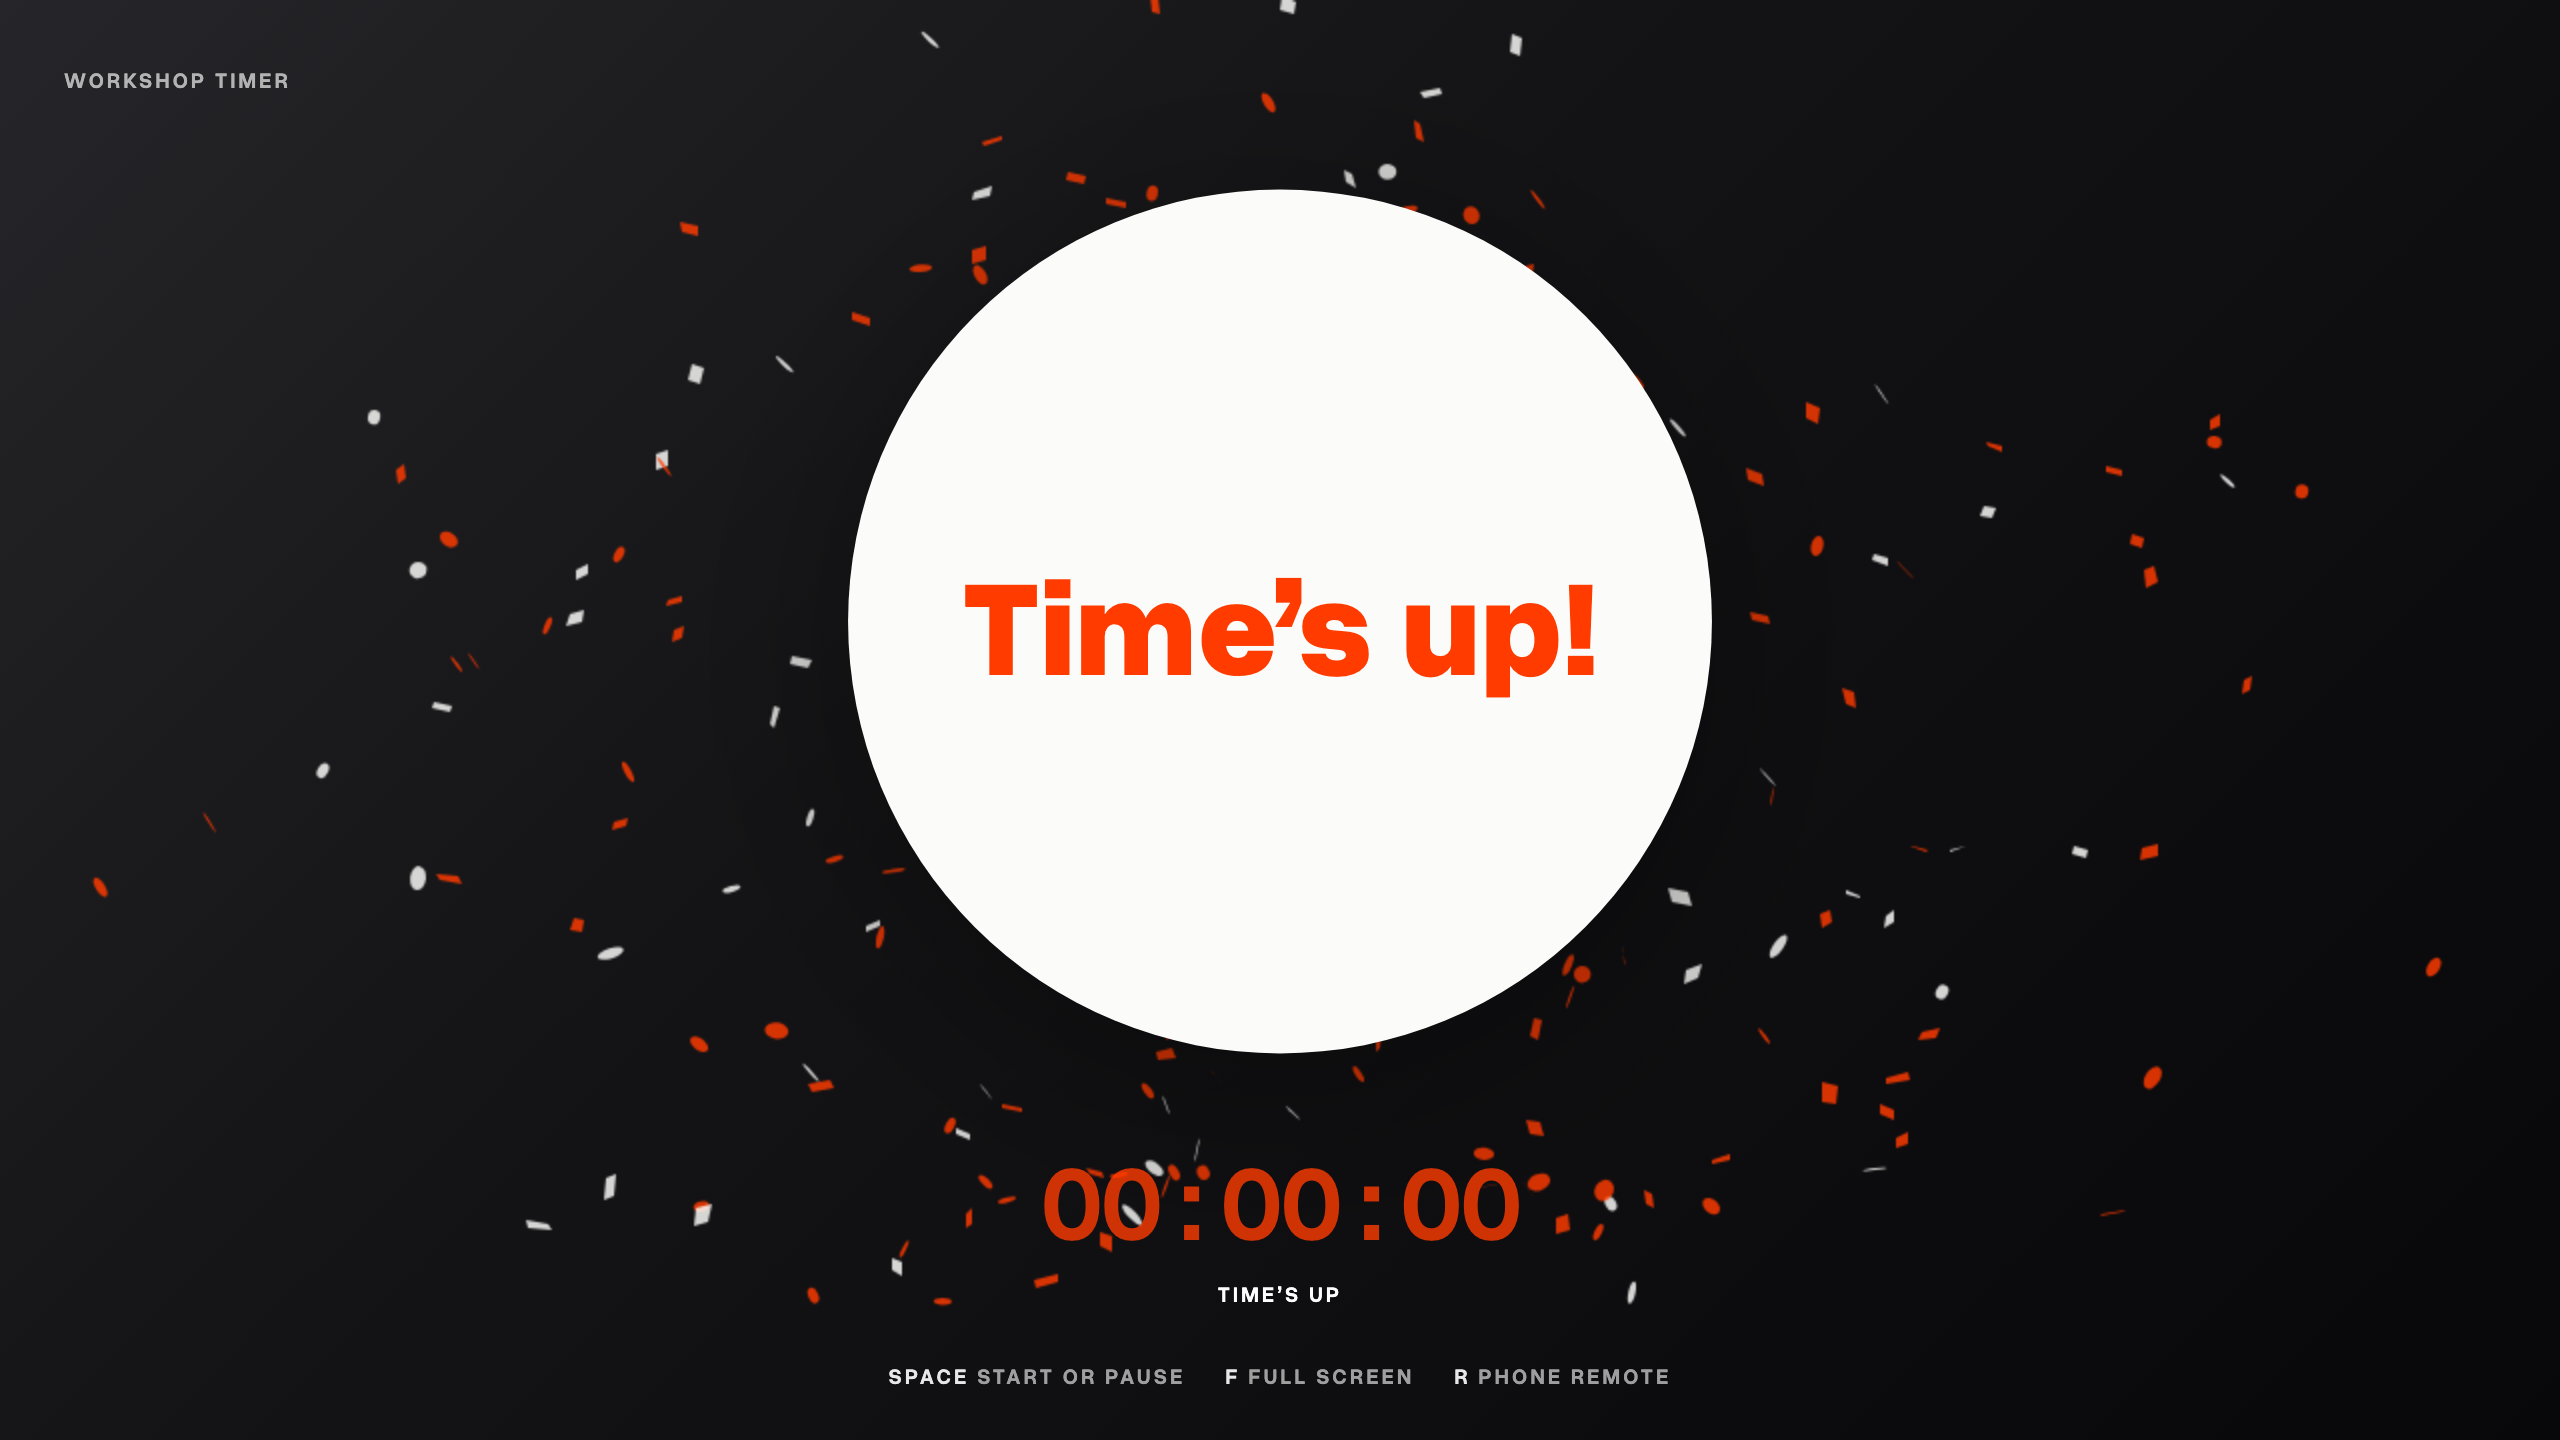
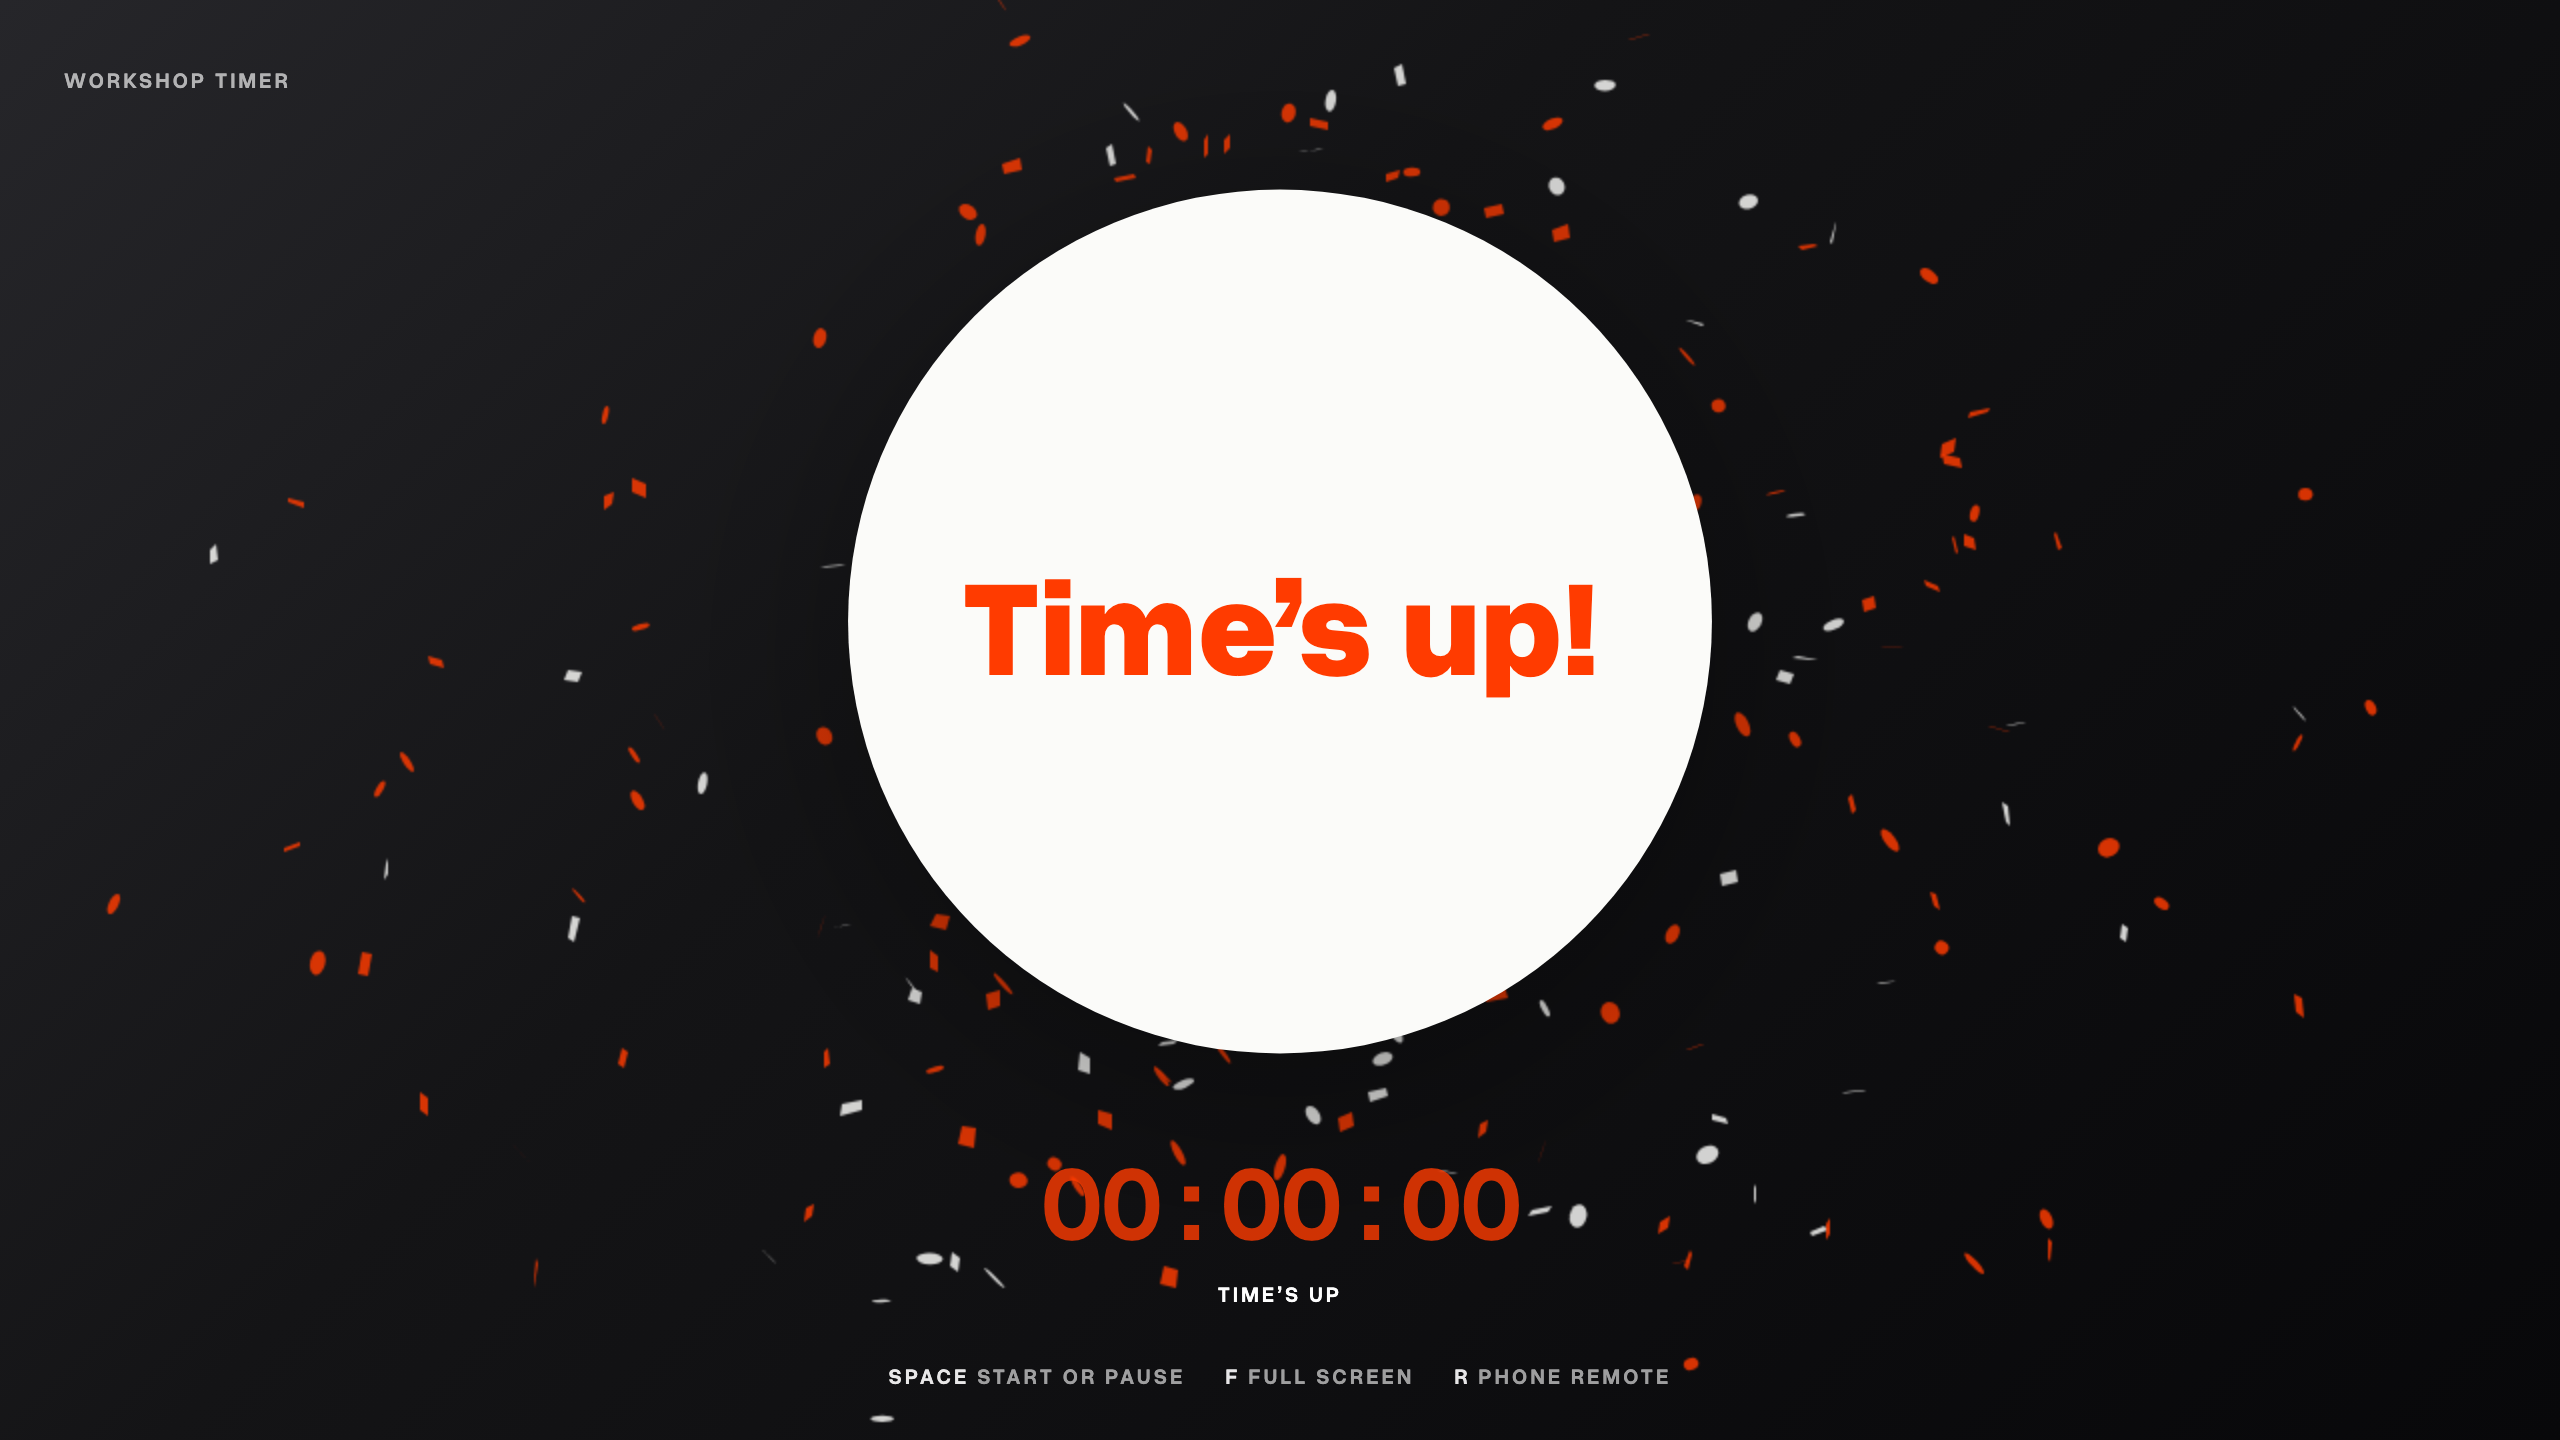
Remove the dial's backlight ring
The ring, its bloom in the last thirty seconds and the breathing are gone;
the last minute keeps the hundredths and the shake. README pictures re-shot.

diff --git a/src/components/timer-dial.tsx b/src/components/timer-dial.tsx
@@ -1,5 +1,3 @@
-import type * as React from "react"
-
 import { cn } from "@/lib/utils"
 
 // The clock face itself, kept in its own file so anything else that wants to
@@ -152,150 +150,29 @@ export function wedgePath(
 /** @param fraction remaining ÷ duration, clamped by the caller.
  *  @param durationSeconds the length the face is drawn for; the marks and
  *    numbers are laid out from it.
- *  @param lit draw the backlight at all. Off leaves the resting dial and the
- *    link-preview card exactly as they were.
- *  @param spinning turn it. A lit but still backlight is a paused clock.
- *  @param urgent inside the last minute: faster, breathing, and the whole face
- *    shakes.
- *  @param intense inside the last thirty seconds: the light at full strength,
- *    a wide bloom behind it, breathing twice as fast. */
+ *  @param urgent inside the last minute: the whole face shakes. */
 function TimerDial({
   fraction,
   durationSeconds,
-  lit = false,
-  spinning = false,
   urgent = false,
-  intense = false,
   className,
 }: {
   fraction: number
   durationSeconds: number
-  lit?: boolean
-  spinning?: boolean
   urgent?: boolean
-  intense?: boolean
   className?: string
 }) {
   const { ticks, numerals } = dialScale(durationSeconds)
-  // How strong the light is: the run, the last minute, the last thirty
-  // seconds. Each step is brighter and wider than the one before, so the
-  // light only ever builds towards zero.
-  const glow = intense
-    ? { ring: 1, ringWidth: 3, half: 1, halfWidth: 5.5 }
-    : urgent
-      ? { ring: 0.9, ringWidth: 2.4, half: 0.85, halfWidth: 4 }
-      : { ring: 0.8, ringWidth: 2.2, half: 0.7, halfWidth: 3.5 }
   return (
     <svg
       viewBox="0 0 200 200"
       aria-hidden
       className={cn(
-        // The backlight is drawn wider than the face and has to escape the
-        // viewBox to read as light behind an object rather than a ring painted
-        // on one. The page's own `overflow-hidden` is the backstop.
-        "overflow-visible drop-shadow-[0_20px_50px_rgb(0_0_0/0.35)]",
+        "drop-shadow-[0_20px_50px_rgb(0_0_0/0.35)]",
         urgent && "dial-shake",
         className
       )}
     >
-      <defs>
-        {/* Two blurs, because the ring and the brightening are doing different
-            jobs. The ring wants a tight one, or a 2px stroke spread over 16
-            units stops being a ring at all and becomes a wash. The brighter
-            side wants a wide one, so it has no edge to give it away as a
-            second shape drawn on top. Both need a filter region far larger
-            than one bbox; the default would clip the bloom into a square. */}
-        <filter id="dial-ring" x="-200%" y="-200%" width="500%" height="500%">
-          <feGaussianBlur stdDeviation="1.4" />
-        </filter>
-        <filter id="dial-glow" x="-200%" y="-200%" width="500%" height="500%">
-          <feGaussianBlur stdDeviation="4" />
-        </filter>
-        <filter id="dial-bloom" x="-200%" y="-200%" width="500%" height="500%">
-          <feGaussianBlur stdDeviation="9" />
-        </filter>
-      </defs>
-
-      {/* THE BACKLIGHT, and it is drawn first because that is the whole trick:
-          it sits BEHIND the white face, at a radius a little larger, so the
-          opaque face swallows the inner half of the bloom and only the part
-          that escapes past the rim is ever seen. Painted on top at the same
-          radius it reads as a ring someone drew on the dial; painted behind it
-          reads as a lamp.
-
-          A thin even ring holds the whole contour, and half of it is carried
-          a little brighter, so the dial reads as lit from one side and that
-          side goes round. Anything shorter than half reads as an object
-          travelling rather than as light.
-
-          The brand's BRIGHT tone for most of the run and its ACCENT in the
-          last minute, and holding the accent back is the point: the moment it
-          appears is itself the warning, before the pulse or the shake have
-          said anything. */}
-      {lit && (
-        // Two groups, not two classes on one. `animation` is a shorthand, so
-        // the pulse and the spin on the same element are one property and the
-        // last rule wins: the last minute quietly STOPPED the rotation and
-        // only breathed. And the play-state is set inline rather than with a
-        // utility, because `.dial-spin` is unlayered CSS and beats anything
-        // Tailwind emits into a layer — pausing the clock left the light
-        // turning.
-        <g className={cn(urgent && "dial-urgent", intense && "dial-intense")}>
-          {/* The last thirty seconds: a wide bloom all the way round, so the
-              whole dial seems to give off light rather than one side of it. */}
-          {intense && (
-            <circle
-              cx="100"
-              cy="100"
-              r="97"
-              fill="none"
-              strokeWidth="8"
-              opacity={0.75}
-              className="stroke-brand-accent"
-              filter="url(#dial-bloom)"
-            />
-          )}
-          <g
-            className="dial-spin"
-            style={
-              {
-                "--dial-spin-duration": urgent ? "0.4s" : "1s",
-                animationPlayState: spinning ? "running" : "paused",
-              } as React.CSSProperties
-            }
-          >
-            {/* The ring: the whole contour, thin and even. */}
-            <circle
-              cx="100"
-              cy="100"
-              r="96"
-              fill="none"
-              strokeWidth={glow.ringWidth}
-              opacity={glow.ring}
-              className={urgent ? "stroke-brand-accent" : "stroke-brand-on-ground"}
-              filter="url(#dial-ring)"
-            />
-            {/* And one side of it, a little brighter. Half the circumference,
-                not a lobe: a short arc reads as an object travelling round the
-                ring, where half of it reads as the ring being lit from one
-                side. The gap between this opacity and the ring's is what
-                "slightly" means here — far enough apart to see, close enough
-                that it never separates into a second thing. */}
-            <circle
-              cx="100"
-              cy="100"
-              r="96"
-              fill="none"
-              strokeWidth={glow.halfWidth}
-              strokeLinecap="round"
-              strokeDasharray="302 302"
-              opacity={glow.half}
-              className={urgent ? "stroke-brand-accent" : "stroke-brand-on-ground"}
-              filter="url(#dial-glow)"
-            />
-          </g>
-        </g>
-      )}
       {/* Three roles, one colour each: the GROUND is the field, the FACE is
           the dial, the ACCENT is time. Putting the wedge on the face is what
           lets the accent be a saturated colour at all — a saturated accent on a

diff --git a/src/app/globals.css b/src/app/globals.css
@@ -85,49 +85,10 @@
   animation: receipt-feed 0.55s var(--ease-out-pm) both;
 }
 
-/* ── The dial's backlight ───────────────────────────────────────────────────
-   One turn a second, and the only thing on this page driven by CSS rather
-   than by the clock's own tick. At this speed the React render loop is the
-   wrong tool: it updates ten times a second, which is ten frames per
-   revolution, and the glow strobes instead of turning. A keyframe runs it at
-   the compositor's rate and costs no renders at all. The phase is therefore
-   not tied to the countdown, which is fine — at a turn a second it is a sign
-   of life, not a reading anybody takes. */
-@keyframes dial-spin {
-  to {
-    transform: rotate(360deg);
-  }
-}
-.dial-spin {
-  /* `view-box` makes the origin the dial's own centre rather than the bounding
-     box of the glow, which would wobble as the dash moves. */
-  transform-box: view-box;
-  transform-origin: 50% 50%;
-  animation: dial-spin var(--dial-spin-duration, 1s) linear infinite;
-}
-
 /* ── The last minute ────────────────────────────────────────────────────────
-   The backlight breathes and the face shakes, both on transforms and opacity
-   only, and both off entirely for anyone who has asked for less movement — at
-   which point the clock still reads correctly, because neither of these
-   carries information the digits do not. */
-@keyframes dial-urgent {
-  0%,
-  100% {
-    opacity: 0.5;
-  }
-  50% {
-    opacity: 1;
-  }
-}
-.dial-urgent {
-  animation: dial-urgent 0.85s ease-in-out infinite;
-}
-/* The last thirty seconds breathe twice as fast. */
-.dial-urgent.dial-intense {
-  animation-duration: 0.45s;
-}
-
+   The face shakes, on transforms only, and not at all for anyone who has asked
+   for less movement — at which point the clock still reads correctly, because
+   the shake carries no information the digits do not. */
 @keyframes dial-shake {
   0%,
   100% {
@@ -152,8 +113,6 @@
 
 @media (prefers-reduced-motion: reduce) {
   .receipt-feed,
-  .dial-spin,
-  .dial-urgent,
   .dial-shake {
     animation: none;
   }

diff --git a/src/components/timer-screen.tsx b/src/components/timer-screen.tsx
@@ -395,14 +395,8 @@ function TimerScreen({ defaultMinutes = DEFAULT_MINUTES }: { defaultMinutes?: nu
   const durationSeconds = Math.round(durationMs / 1000)
   const fraction = Math.min(remainingMs, durationMs) / durationMs
 
-  // The backlight is on once the clock has been touched, turns only while it
-  // runs, and goes up a gear in the last minute. No angle is computed here:
-  // at a turn a second the rotation belongs to a CSS keyframe, not to a value
-  // re-rendered ten times a second.
   const plinth = needsPlinth(brand)
-  const started = running || remainingMs < durationMs
   const urgent = running && remainingMs > 0 && remainingMs <= 60_000
-  const intense = urgent && remainingMs <= 30_000
 
   return (
     <main
@@ -487,10 +481,7 @@ function TimerScreen({ defaultMinutes = DEFAULT_MINUTES }: { defaultMinutes?: nu
           <TimerDial
             fraction={fraction}
             durationSeconds={durationSeconds}
-            lit={started}
-            spinning={running}
             urgent={urgent}
-            intense={intense}
             className={cn(
               "h-full max-h-full w-full transition-opacity duration-500",
               finished && "opacity-0"

diff --git a/src/lib/brand.ts b/src/lib/brand.ts
@@ -26,7 +26,7 @@ export type BrandColors = {
   /** The dial's face, and the plinth under the readout. The brightest surface
    *  on the page, which is what makes the clock the thing you see first. */
   face: string
-  /** TIME. The wedge and the digits, and the backlight in the last minute.
+  /** TIME. The wedge and the digits.
    *  One accent, used nowhere else. */
   accent: string
   /** Text and tick marks on `face`. */

diff --git a/README.md b/README.md
@@ -47,7 +47,7 @@ readout, by preset, or in the link itself (`/#25`, `/#7:30`). It opens at ten mi
 A quiet clock ticks once a minute, then every second for the last two minutes
 and twice a second for the last one. The final 35 seconds are a watch, speeding
 up into a gong. The last minute also switches the readout to
-hundredths, lights the rim and shakes the face. The movement stops under `prefers-reduced-motion`
+hundredths and shakes the face. The movement stops under `prefers-reduced-motion`
 and the sound button silences the rest. The sound is synthesised, so the app
 ships no audio file.
 
@@ -105,7 +105,7 @@ Copy [`brands/example.json`](brands/example.json) to see every field. Three
 things are worth knowing:
 
 1. **`face` must be brighter than `ground`.** The dial is read from the back of
-   a room and the rim light is light escaping past the face.
+   a room.
 2. **`accent` carries the only information on the page.** You do not have to
    protect the readout yourself: the app measures accent against ground and
    drops in a bright plate behind the digits only when contrast falls below
